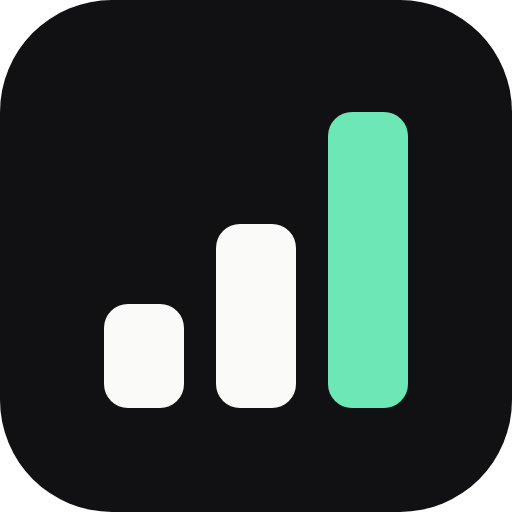
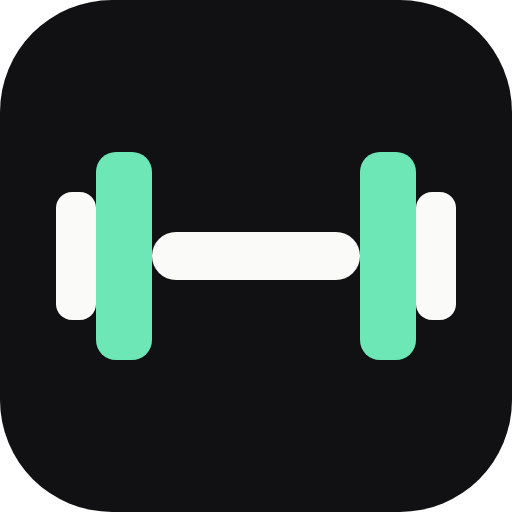
Snapshot-first dashboard with tabs for the full data; Fat to Fit track to 85 kg; dumbbell branding and lift animations; profile and goal set; steps-aware burn estimate
Claude-Session: https://claude.ai/code/session_01WTKywF3WSx8F6Vy4QhDQe5

Changed region(s): [[0.0938, 0.2188, 0.9062, 0.8125]]

diff --git a/src/Dashboard.jsx b/src/Dashboard.jsx
@@ -2,7 +2,7 @@ import { useEffect, useMemo, useRef, useState } from 'react';
 import { EXPERIMENTS, HANDLE, IG_URL, MUSCLES, POSITIONING, PROFILE, SHEET_COPY_URL, TARGETS } from './config.js';
 import { addDays, buildFrame, fmtDate, fromKey, todayKey } from './lib.js';
 import { aggregates, buildDays, estimateBurn, experimentResult, highlights, insights, milestones, overview, perfectStreaks, sheetChecks, weekCompare, weeklyChange, weeklyReports } from './analytics.js';
-import { BurnCard, ExperimentCard, InsightsCard, KaizenCard, RulesStrip, SheetCheck, ShareButton, ThemeToggle, TodayRing, VlogGallery, WeekCompareCard, WeeklyReports } from './components/Protocol.jsx';
+import { BurnCard, Dumbbell, FatToFitTrack, ExperimentCard, InsightsCard, KaizenCard, RulesStrip, SheetCheck, ShareButton, ThemeToggle, TodayRing, VlogGallery, WeekCompareCard, WeeklyReports } from './components/Protocol.jsx';
 import { journalFromCsv } from './sheet.js';
 import BodyMap from './components/BodyMap.jsx';
 import ConsistencyFrame from './components/ConsistencyFrame.jsx';
@@ -67,13 +67,14 @@ function Intro() {
   useEffect(() => {
     if (!on) return undefined;
     try { sessionStorage.setItem('f2f:intro', '1'); } catch { /* ignore */ }
-    const a = setTimeout(() => setLeaving(true), 2300); const b = setTimeout(() => setOn(false), 3100);
+    const a = setTimeout(() => setLeaving(true), 3000); const b = setTimeout(() => setOn(false), 3800);
     return () => { clearTimeout(a); clearTimeout(b); };
   }, [on]);
   if (!on) return null;
   return (
     <div className={`intro ${leaving ? 'out' : ''}`} onClick={() => { setLeaving(true); setTimeout(() => setOn(false), 700); }} role="presentation">
       <div className="intro-in">
+        <Dumbbell size={84} className="intro-db" />
         <span className="i1" lang="ja">改善</span>
         <span className="i2">Kaizen</span>
         <span className="i3">1% better, every single day</span>
@@ -84,9 +85,9 @@ function Intro() {
 }
 
 // Counts up to its value when it first appears, and glides to the new value when the sheet changes.
-export function Num({ v, d = 0, sign = false, loc = false, delay = 0 }) {
-  const [shown, setShown] = useState(() => (reduced() ? v : 0));
-  const from = useRef(reduced() ? v : 0);
+export function Num({ v, d = 0, sign = false, loc = false, delay = 0, from: origin = 0 }) {
+  const [shown, setShown] = useState(() => (reduced() ? v : origin));
+  const from = useRef(reduced() ? v : origin);
   useEffect(() => {
     if (reduced()) { setShown(v); return undefined; }
     let raf; let t0 = null; const start = from.current; const ms = 1100;
@@ -199,6 +200,8 @@ export default function Dashboard() {
   const t = journal.target;
   const [range, setRange] = useState(30);
   const [sel, setSel] = useState(null);
+  const [fullOpen, setFullOpen] = useState(() => { try { return new URLSearchParams(window.location.search).has('full'); } catch { return false; } });
+  const [tab, setTab] = useState('days');
   const [story, setStory] = useState(null); // { i, paused } while the highlight reel plays
   const [, tick] = useState(0);
   useEffect(() => { const id = setInterval(() => tick((x) => x + 1), 30000); return () => clearInterval(id); }, []);
@@ -218,6 +221,9 @@ export default function Dashboard() {
   const selKey = sel && days.some((d) => d.k === sel) ? sel : (lastLogged || days[days.length - 1])?.k;
   const selDay = days.find((d) => d.k === selKey);
   const selIdx = days.findIndex((d) => d.k === selKey);
+  const openFull = (name = 'days') => { setTab(name); setFullOpen(true); setTimeout(() => document.getElementById('full')?.scrollIntoView({ behavior: reduced() ? 'auto' : 'smooth', block: 'start' }), 80); };
+  const closeFull = () => { setFullOpen(false); window.scrollTo({ top: 0, behavior: reduced() ? 'auto' : 'smooth' }); };
+  const openDay = (k) => { setStory(null); setSel(k); openFull('days'); };
   const hl = useMemo(() => highlights(days, journal, today), [days, journal, today]);
   const ins = useMemo(() => insights(days, t), [days, t]);
   const wc = useMemo(() => weekCompare(days, today), [days, today]);
@@ -289,6 +295,7 @@ export default function Dashboard() {
       <Intro />
       <header className="hero">
         <ThemeToggle />
+        <Dumbbell size={40} className="hero-db" />
         <a className="handle" href={IG_URL} target="_blank" rel="noopener noreferrer">{HANDLE}</a>
         <h1>Weight Loss Journal</h1>
         <p className="kaizen"><span lang="ja">改善</span> Kaizen · 1% better, every single day</p>
@@ -305,26 +312,52 @@ export default function Dashboard() {
       <RulesStrip t={t} positioning={POSITIONING} />
       {days.length > 0 && <TodayRing day={todayDay} today={today} />}
 
-      {days.length > 0 && <div className="strip-wrap"><DayStrip days={days} selected={selKey} today={today} onSelect={(k) => { setStory(null); setSel(k); }} playing={!!story} onPlay={() => (story ? setStory(null) : startStory())} canPlay={days.length > 0} /></div>}
+      {days.length > 0 && <div className="strip-wrap"><DayStrip days={days} selected={selKey} today={today} onSelect={openDay} playing={!!story} onPlay={() => (story ? setStory(null) : startStory())} canPlay={days.length > 0} /></div>}
 
       {!days.length ? (
         <Card><p className="dim">{sheet.status === 'loading' ? 'Loading the journal…' : 'No entries yet. Once the first day is added to the sheet, everything appears here automatically.'}</p></Card>
       ) : (
         <main>
+          <section className="snap">
+            <FatToFitTrack start={ov?.start} current={ov?.current} goal={t.goalWeight} perWeek={t.perWeek} trend={ov?.trend} today={today} />
           <div className="kpis">
-            <Kpi k="Weight now" big={ov ? <Num v={ov.current} d={1} delay={600} /> : '–'} unit="kg" note={ov ? `${short(ov.currentDate)} · started ${ov.start.toFixed(1)}` : 'First weigh-in coming'} />
+            <Kpi k="Weight now" big={ov ? <Num v={ov.current} d={1} delay={600} from={ov.start} /> : '–'} unit="kg" note={ov ? `${short(ov.currentDate)} · started ${ov.start.toFixed(1)}` : 'First weigh-in coming'} />
             <Kpi k="Lost so far" big={ov ? <Num v={-ov.lost} d={1} sign delay={700} /> : '–'} unit="kg" tone={ov && ov.lost > 0 ? 'good' : ''} note={ov ? `${ov.pctOfStart}% of starting weight` : ''} />
             <Kpi k="Weekly trend" big={ov?.trend ? <Num v={ov.trend.perWeek} d={2} sign delay={800} /> : '–'} unit="kg/wk" tone={trendTone} note={ov?.trend ? `Target −${t.perWeek} · 14-day trend` : 'Needs two weeks of weigh-ins'} />
             <Kpi k="Perfect days" big={<Num v={agAll.perfect} delay={900} />} unit={`of ${agAll.tracked}`} note={`Streak ${streak.cur} · best ${streak.best}`} />
             <Kpi k="Avg sleep" big={a7.sleep.avg ?? '–'} unit={a7.sleep.avg != null ? 'h' : ''} tone={a7.sleep.avg != null && a7.sleep.avg >= t.sleep ? 'good' : a7.sleep.avg != null ? 'warn' : ''} note={a7.sleep.avg != null ? `Last 7 days · target ${t.sleep} h` : 'Not tracked yet · add Sleep (hrs) in the sheet'} />
             <Kpi k="Steps" big={agAll.steps.avg != null ? <Num v={agAll.steps.avg} loc delay={1000} /> : '–'} unit="/ day" note={`${agAll.steps.total.toLocaleString('en-IN')} total · goal ${t.steps.toLocaleString('en-IN')}`} />
           </div>
-
+            <div className="grid">
+              <div className="c7"><Card title="Weight · last 30 days" sub={ov ? `${ov.status === 'on pace' ? 'On target pace' : `${Math.abs(ov.diff).toFixed(2)} kg ${ov.status} of the −${t.perWeek} kg/week line`}` : 'Needs a first weigh-in'}>
+                <XYChart xs={days.slice(-30).map((d) => ({ k: d.k, label: short(d.k), full: fmtDate(d.k, { weekday: 'short', day: 'numeric', month: 'short' }) }))} label="Weight, last 30 days" fmt={(v) => v.toFixed(1)} height={210} onPick={openDay}
+                  lines={[{ name: 'Weight', values: days.slice(-30).map((d) => d.w), color: 'var(--c1)', dots: true }, { name: `Target −${t.perWeek} kg/week`, values: days.slice(-30).map((d) => d.target), color: 'var(--muted)', dash: true }]}
+                  tip={(i) => { const d = days.slice(-30)[i]; return [d.w != null && { name: 'Weight', text: `${d.w.toFixed(1)} kg`, color: 'var(--c1)' }, d.target != null && { name: 'Target', text: `${d.target.toFixed(1)} kg` }].filter(Boolean); }} />
+              </Card></div>
+              <div className="c5 stack"><ExperimentCard results={experiments} />
+                {ms.next[0] && <Card title="Next milestone" sub="The closest badge to earn"><ul className="nextlist">{ms.next.slice(0, 3).map((n) => <li key={n.cat}><span>{n.title}</span><i><u style={{ width: `${Math.min(100, (n.have / n.n) * 100)}%` }} /></i><em>{n.cat === 'steps' ? `${Math.round(n.have / 1000)}k / ${n.n / 1000}k` : `${n.have} / ${n.n}`}</em></li>)}</ul></Card>}
+              </div>
+            </div>
+            <div className="snapcta">
+              <button className="bigbtn" onClick={() => (fullOpen ? closeFull() : openFull('days'))}><Dumbbell size={26} /><span>{fullOpen ? 'Hide the full data' : 'See all the data'}</span><i aria-hidden="true">{fullOpen ? '↑' : '↓'}</i></button>
+              <button className="bigbtn ghost" onClick={startStory}><span aria-hidden="true">▶</span><span>Play my journey</span></button>
+            </div>
+          </section>
+          {fullOpen && (
+            <section className="full" id="full">
+              <div className="tabs" role="tablist" aria-label="Full data">
+                <button role="tab" aria-selected={tab === 'days'} className={tab === 'days' ? 'on' : ''} onClick={() => setTab('days')}>Days</button>
+                <button role="tab" aria-selected={tab === 'trends'} className={tab === 'trends' ? 'on' : ''} onClick={() => setTab('trends')}>Trends</button>
+                <button role="tab" aria-selected={tab === 'journey'} className={tab === 'journey' ? 'on' : ''} onClick={() => setTab('journey')}>Journey</button>
+                <button role="tab" aria-selected={tab === 'journal'} className={tab === 'journal' ? 'on' : ''} onClick={() => setTab('journal')}>Vlogs & journal</button>
+                <button className="tabs-x" onClick={closeFull} aria-label="Hide the full data">Hide ↑</button>
+              </div>
+              <div className="tabbody" key={tab}>
+                {tab === 'days' && (<>
           <div className="grid">
             <div className="c7"><KaizenCard days={days} view={view} xs={xs} t={t} onPick={setSel} selected={selKey} /></div>
             <div className="c5 stack"><ExperimentCard results={experiments} /><WeekCompareCard wc={wc} /></div>
           </div>
-
           <div className="grid">
             {selDay && <div className="c5" key={selDay.k}><DayPanel d={selDay} t={t} prevW={prevW} today={today} dayNo={selIdx + 1} /></div>}
             <div className="c7 stack">
@@ -343,40 +376,8 @@ export default function Dashboard() {
               </Card>
             </div>
           </div>
-
-          <div className="grid">
-            <div className="c7"><InsightsCard ins={ins} /></div>
-            <div className="c5 stack">{burn && <BurnCard est={burn.est} avgKcal={burn.avgKcal} avgSteps={burn.avgSteps} target={t.perWeek} />}<WeeklyReports reports={reports.slice(0, 6)} /></div>
-          </div>
-
-          {hl.length > 2 && (
-            <Card className="hlcard" title="Key moments" sub="The days that mattered, found automatically from the sheet. Tap one to open that day, or play the whole journey as a short story."
-              right={<button className="play solid" onClick={startStory}><span aria-hidden="true">▶</span><b>Play my journey</b></button>}>
-              <ul className="hl">{hl.map((e, i) => (
-                <li key={e.id}><button className={`hl-item ${e.tone}`} onClick={() => { setStory(null); setSel(e.date); window.scrollTo({ top: 0, behavior: 'smooth' }); }}>
-                  <span className="hl-k">{e.kind} · {short(e.date)}</span><b>{e.title}</b><em>{e.detail}</em></button></li>))}</ul>
-            </Card>
-          )}
-
-          <div className="grid">
-            <div className="c5"><Card title="Before & after" sub={ov ? `Since ${fmtDate(ov.startDate, { day: 'numeric', month: 'long' })}` : 'Needs a first weigh-in'}>
-              {ov ? (
-                <>
-                  <div className="ba"><div><span className="k">Start</span><b>{ov.start.toFixed(1)}<small> kg</small></b></div><i aria-hidden="true">→</i><div><span className="k">Now</span><b>{ov.current.toFixed(1)}<small> kg</small></b></div><div className="lost"><span className="k">Change</span><b>{sgn(-ov.lost)}<small> kg</small></b></div></div>
-                  {t.goalWeight ? (() => { const pct = Math.max(0, Math.min(100, ((ov.start - ov.current) / (ov.start - t.goalWeight)) * 100)); return (<><div className="goalbar" role="img" aria-label={`${Math.round(pct)}% of the way to ${t.goalWeight} kg`}><u style={{ width: `${pct}%` }} /></div><p className="rule">{Math.round(pct)}% of the way to {t.goalWeight} kg · {(ov.current - t.goalWeight).toFixed(1)} kg to go{ov.trend && ov.trend.perWeek < 0 ? ` · about ${Math.ceil((ov.current - t.goalWeight) / -ov.trend.perWeek)} weeks at this pace` : ''}</p></>); })() : ov.in4weeks != null && <p className="rule">At the current 14-day trend: about {ov.in4weeks} kg in four weeks.</p>}
-                </>
-              ) : <p className="dim">Appears after the first weigh-in.</p>}
-            </Card></div>
-            <div className="c7"><Card title="Milestones" sub={`${ms.earned.length} earned · each with the day it was reached`}>
-              {ms.earned.length ? <ul className="badges">{ms.earned.slice(0, 8).map((e) => <li key={`${e.cat}${e.n}`}><b>{e.title}</b><span>{fmtDate(e.date, { day: 'numeric', month: 'short' })}</span></li>)}</ul> : <p className="dim">The first badge lands soon.</p>}
-              <h3 className="nexth">Up next</h3>
-              <ul className="nextlist">{ms.next.map((n) => <li key={n.cat}><span>{n.title}</span><i><u style={{ width: `${Math.min(100, (n.have / n.n) * 100)}%` }} /></i><em>{n.cat === 'steps' ? `${Math.round(n.have / 1000)}k / ${n.n / 1000}k` : `${n.have} / ${n.n}`}</em></li>)}</ul>
-            </Card></div>
-          </div>
-
-          {frame && <Card title="Consistency" sub="Every square is a day. The darker, the more of the four daily goals were met."><div className="framewrap"><ConsistencyFrame frame={frame} caption="perfect days" maxLabel={4} compact hideLeft /></div>
-            <p className="rule">Perfect day = {t.steps.toLocaleString('en-IN')} steps + evening gym + calories under {t.kcal} + vlog posted. A planned rest day waives the steps goal and gym.</p></Card>}
-
+                </>)}
+                {tab === 'trends' && (<>
           <Card title={`Daily habits · ${rangeLabel.toLowerCase()}`} sub={`Share of ${ag.tracked} logged days where each goal was met`}>
             <div className="rings">
               <Ring pct={ag.hit.steps} label="Steps" sub={`${t.steps / 1000}k a day`} />
@@ -386,7 +387,6 @@ export default function Dashboard() {
               <Ring pct={ag.hit.sleep} label="Sleep" sub={ag.hit.sleep == null ? 'not tracked yet' : `${t.sleep} h+`} />
             </div>
           </Card>
-
           <div className="grid">
             <div className="c6"><Card title="Sleep" sub={`Hours per night · ${rangeLabel.toLowerCase()}${ag.sleep.avg != null ? ` · average ${ag.sleep.avg} h` : ''}`}>
               <XYChart xs={xs} label="Hours of sleep per night" fmt={(v) => v} height={220} onPick={setSel} selected={selKey} empty="Sleep isn’t tracked yet. Add Sleep (hrs) in the daily sheet and this chart fills in."
@@ -406,7 +406,6 @@ export default function Dashboard() {
                 { name: '2 or fewer', value: ag.outcome.low, color: 'var(--warn)' }, { name: 'Rest days', value: ag.outcome.rest, color: 'var(--faint)' }]} />
             </Card></div>
           </div>
-
           <div className="grid">
             <div className="c6"><Card title="Calories" sub={`${rangeLabel}${ag.calories.avg != null ? ` · average ${ag.calories.avg} kcal` : ''}${ag.calories.overDays ? ` · ${ag.calories.overDays} day${ag.calories.overDays === 1 ? '' : 's'} over` : ''}`}>
               <XYChart xs={xs} label="Calories per day" height={220} fmt={(v) => v} onPick={setSel} selected={selKey}
@@ -424,7 +423,6 @@ export default function Dashboard() {
               <HBars items={MUSCLES.map((m) => ({ name: m.label, value: ag.parts[m.id] || 0 })).sort((a, b) => b.value - a.value)} />
             </Card></div>
           </div>
-
           <div className="grid">
             <div className="c6"><Card title="Steps" sub={`Per day · average ${ag.steps.avg != null ? ag.steps.avg.toLocaleString('en-IN') : '–'}${ag.steps.best ? ` · best ${ag.steps.best.toLocaleString('en-IN')}` : ''}`}>
               <XYChart xs={xs} label="Steps per day" height={210} fmt={(v) => (v >= 1000 ? `${v / 1000}k` : v)} onPick={setSel} selected={selKey}
@@ -439,10 +437,41 @@ export default function Dashboard() {
                 tip={(i) => [{ name: 'Total', text: wkSteps[i].total.toLocaleString('en-IN') }, { name: 'Days logged', text: String(wkSteps[i].n) }]} />
             </Card></div>
           </div>
-
+                </>)}
+                {tab === 'journey' && (<>
+          <div className="grid">
+            <div className="c7"><InsightsCard ins={ins} /></div>
+            <div className="c5 stack">{burn && <BurnCard est={burn.est} avgKcal={burn.avgKcal} avgSteps={burn.avgSteps} target={t.perWeek} />}<WeeklyReports reports={reports.slice(0, 6)} /></div>
+          </div>
+          {hl.length > 2 && (
+            <Card className="hlcard" title="Key moments" sub="The days that mattered, found automatically from the sheet. Tap one to open that day, or play the whole journey as a short story."
+              right={<button className="play solid" onClick={startStory}><span aria-hidden="true">▶</span><b>Play my journey</b></button>}>
+              <ul className="hl">{hl.map((e, i) => (
+                <li key={e.id}><button className={`hl-item ${e.tone}`} onClick={() => openDay(e.date)}>
+                  <span className="hl-k">{e.kind} · {short(e.date)}</span><b>{e.title}</b><em>{e.detail}</em></button></li>))}</ul>
+            </Card>
+          )}
+          <div className="grid">
+            <div className="c5"><Card title="Before & after" sub={ov ? `Since ${fmtDate(ov.startDate, { day: 'numeric', month: 'long' })}` : 'Needs a first weigh-in'}>
+              {ov ? (
+                <>
+                  <div className="ba"><div><span className="k">Start</span><b>{ov.start.toFixed(1)}<small> kg</small></b></div><i aria-hidden="true">→</i><div><span className="k">Now</span><b>{ov.current.toFixed(1)}<small> kg</small></b></div><div className="lost"><span className="k">Change</span><b>{sgn(-ov.lost)}<small> kg</small></b></div></div>
+                  {t.goalWeight ? (() => { const pct = Math.max(0, Math.min(100, ((ov.start - ov.current) / (ov.start - t.goalWeight)) * 100)); return (<><div className="goalbar" role="img" aria-label={`${Math.round(pct)}% of the way to ${t.goalWeight} kg`}><u style={{ width: `${pct}%` }} /></div><p className="rule">{Math.round(pct)}% of the way to {t.goalWeight} kg · {(ov.current - t.goalWeight).toFixed(1)} kg to go{ov.trend && ov.trend.perWeek < 0 ? ` · about ${Math.ceil((ov.current - t.goalWeight) / -ov.trend.perWeek)} weeks at this pace` : ''}</p></>); })() : ov.in4weeks != null && <p className="rule">At the current 14-day trend: about {ov.in4weeks} kg in four weeks.</p>}
+                </>
+              ) : <p className="dim">Appears after the first weigh-in.</p>}
+            </Card></div>
+            <div className="c7"><Card title="Milestones" sub={`${ms.earned.length} earned · each with the day it was reached`}>
+              {ms.earned.length ? <ul className="badges">{ms.earned.slice(0, 8).map((e) => <li key={`${e.cat}${e.n}`}><b>{e.title}</b><span>{fmtDate(e.date, { day: 'numeric', month: 'short' })}</span></li>)}</ul> : <p className="dim">The first badge lands soon.</p>}
+              <h3 className="nexth">Up next</h3>
+              <ul className="nextlist">{ms.next.map((n) => <li key={n.cat}><span>{n.title}</span><i><u style={{ width: `${Math.min(100, (n.have / n.n) * 100)}%` }} /></i><em>{n.cat === 'steps' ? `${Math.round(n.have / 1000)}k / ${n.n / 1000}k` : `${n.have} / ${n.n}`}</em></li>)}</ul>
+            </Card></div>
+          </div>
+          {frame && <Card title="Consistency" sub="Every square is a day. The darker, the more of the four daily goals were met."><div className="framewrap"><ConsistencyFrame frame={frame} caption="perfect days" maxLabel={4} compact hideLeft /></div>
+            <p className="rule">Perfect day = {t.steps.toLocaleString('en-IN')} steps + evening gym + calories under {t.kcal} + vlog posted. A planned rest day waives the steps goal and gym.</p></Card>}
+                </>)}
+                {tab === 'journal' && (<>
           {checkMode && <SheetCheck warnings={warnings} />}
           <VlogGallery days={days} handle={HANDLE} />
-
           <div className="grid">
             <div className="c5"><Card title="What I track" sub="Everything below is filled in daily from one sheet">
               <ul className="track">
@@ -467,6 +496,10 @@ export default function Dashboard() {
               </table></div>
             </Card></div>
           </div>
+                </>)}
+              </div>
+            </section>
+          )}
         </main>
       )}
 

diff --git a/src/dashboard.css b/src/dashboard.css
@@ -156,10 +156,10 @@
 .dx .intro.out { transform: translateY(-100%); opacity: .6; }
 .dx .intro-in { display: grid; gap: 10px; justify-items: center; padding: 24px; }
 .dx .intro-in span { opacity: 0; transform: translateY(14px); animation: rise .8s cubic-bezier(.2,.7,.2,1) forwards; }
-.dx .i1 { font: 700 clamp(88px, 22vw, 180px)/1 var(--sans); letter-spacing: -0.04em; color: var(--accent); animation-delay: .1s !important; }
-.dx .i2 { font: 300 clamp(22px, 5vw, 36px) var(--sans); letter-spacing: .5em; text-transform: uppercase; margin-right: -.5em; animation-delay: .6s !important; }
-.dx .i3 { font: italic 400 clamp(20px, 4vw, 30px)/1.2 var(--serif); color: var(--muted); animation-delay: 1.1s !important; }
-.dx .i4 { font-size: 12px; letter-spacing: .18em; text-transform: uppercase; color: var(--faint); margin-top: 18px; animation-delay: 1.5s !important; }
+.dx .i1 { font: 700 clamp(88px, 22vw, 180px)/1 var(--sans); letter-spacing: -0.04em; color: var(--accent); animation-delay: 1.3s !important; }
+.dx .i2 { font: 300 clamp(22px, 5vw, 36px) var(--sans); letter-spacing: .5em; text-transform: uppercase; margin-right: -.5em; animation-delay: 1.8s !important; }
+.dx .i3 { font: italic 400 clamp(20px, 4vw, 30px)/1.2 var(--serif); color: var(--muted); animation-delay: 2.2s !important; }
+.dx .i4 { font-size: 12px; letter-spacing: .18em; text-transform: uppercase; color: var(--faint); margin-top: 18px; animation-delay: 2.6s !important; }
 @keyframes rise { to { opacity: 1; transform: none; } }
 
 .dx .hero > * { animation: rise .8s cubic-bezier(.2,.7,.2,1) both; opacity: 0; transform: translateY(12px); }
@@ -288,3 +288,39 @@ html.reel-on, html.reel-on body { overflow: hidden; height: 100%; }
 .reel-goals { list-style: none; margin: 1vh 0 0; padding: 0; display: grid; gap: 1.2vh; } .reel-goals li { display: flex; justify-content: space-between; align-items: center; border: 1px solid rgba(255,255,255,.14); border-radius: 14px; padding: 1.4vh 20px; font-size: clamp(16px, 2.6vh, 24px); color: #a1a1aa; animation: rise .6s calc(.6s + var(--i) * .12s) both; } .reel-goals li b { font-size: 1.15em; } .reel-goals li.on { color: #f4f4f5; border-color: #6ee7b7; background: rgba(110,231,183,.08); } .reel-goals li.on b { color: #6ee7b7; }
 .reel-foot { margin-top: 2.5vh; font-size: clamp(15px, 2.4vh, 22px); color: #a1a1aa; } .reel-url { font-size: 13px; color: #52525b; margin-top: 1vh; }
 @media (prefers-reduced-motion: reduce) { .reel * { animation: none !important; } }
+
+/* ---------- dumbbell, snapshot, tabs, fat-to-fit track ---------- */
+.dx .db { fill: currentColor; color: var(--text); overflow: visible; }
+.dx .db-l rect:first-child, .dx .db-r rect:first-child { fill: var(--accent); }
+.dx .hero-db { display: block; margin: 0 auto 10px; animation: lifting 3.2s ease-in-out infinite; transform-origin: 50% 70%; }
+@keyframes lifting { 0%, 55%, 100% { transform: translateY(0) rotate(0); } 15% { transform: translateY(-9px) rotate(-4deg); } 30% { transform: translateY(-9px) rotate(4deg); } 42% { transform: translateY(0) rotate(0); } }
+.dx .intro-db { opacity: 1; transform: none; animation: introlift 2.4s cubic-bezier(.4,0,.2,1) both !important; margin-bottom: 14px; }
+@keyframes introlift { 0% { transform: translateY(26px) scale(.7); opacity: 0; } 18% { transform: translateY(0) scale(1); opacity: 1; } 34% { transform: translateY(-30px); } 46% { transform: translateY(0); } 62% { transform: translateY(-30px) rotate(-3deg); } 76%, 100% { transform: translateY(0) rotate(0); opacity: 1; } }
+.dx .intro-db .db-l { animation: plate-l .9s .35s cubic-bezier(.2,.7,.2,1) both; } .dx .intro-db .db-r { animation: plate-r .9s .35s cubic-bezier(.2,.7,.2,1) both; }
+@keyframes plate-l { from { transform: translateX(-26px); opacity: 0; } } @keyframes plate-r { from { transform: translateX(26px); opacity: 0; } }
+
+.dx .snap { display: grid; gap: 20px; }
+.dx .snapcta { display: flex; flex-wrap: wrap; gap: 12px; justify-content: center; }
+.dx .bigbtn { display: inline-flex; align-items: center; gap: 12px; border: 0; background: var(--text); color: var(--bg); border-radius: 99px; padding: 14px 26px; font: 600 16px var(--sans); cursor: pointer; transition: transform .2s, box-shadow .2s; box-shadow: 0 8px 30px color-mix(in srgb, var(--text) 18%, transparent); }
+.dx .bigbtn:hover { transform: translateY(-3px) scale(1.02); } .dx .bigbtn .db { color: var(--bg); } .dx .bigbtn:hover .db { animation: lifting 1s ease-in-out infinite; }
+.dx .bigbtn i { font-style: normal; animation: nudgey 1.6s ease-in-out infinite; } @keyframes nudgey { 50% { transform: translateY(3px); } }
+.dx .bigbtn.ghost { background: transparent; color: var(--text); border: 1px solid var(--line-2); box-shadow: none; }
+
+.dx .track { border: 1px solid var(--line); border-radius: 20px; padding: 20px 24px 18px; background: linear-gradient(180deg, var(--raised), var(--panel)); }
+.dx .track-top { display: flex; flex-wrap: wrap; justify-content: space-between; align-items: baseline; gap: 6px 16px; } .dx .track-top b { font: 700 24px var(--sans); letter-spacing: -0.03em; } .dx .track-top i { font-style: normal; color: var(--ok); } .dx .track-top span { color: var(--muted); font-size: 13.5px; }
+.dx .track-bar { position: relative; height: 14px; margin: 56px 14px 8px; border-radius: 99px; background: var(--line-2); }
+.dx .track-fill { position: absolute; inset: 0 auto 0 0; width: 0; border-radius: 99px; background: linear-gradient(90deg, var(--warn), var(--ok)); transition: width 2s cubic-bezier(.2,.7,.2,1) .3s; }
+.dx .track-marker { position: absolute; top: -50px; left: 0; transform: translateX(-50%); display: grid; justify-items: center; transition: left 2s cubic-bezier(.2,.7,.2,1) .3s; } .dx .track-marker em { font-style: normal; font: 600 12px var(--sans); color: var(--muted); margin-top: -2px; }
+.dx .track.in .track-fill { width: var(--p); } .dx .track.in .track-marker { left: var(--p); } .dx .track-marker .db { animation: lifting 2.6s ease-in-out infinite 2.4s; }
+.dx .track-ends { display: flex; justify-content: space-between; font: 600 14px var(--sans); } .dx .track-ends small { display: block; font-weight: 400; font-size: 11px; letter-spacing: .12em; text-transform: uppercase; color: var(--muted); } .dx .track-ends span:last-child { text-align: right; }
+.dx .track-eta { margin: 12px 0 0; font-size: 13px; color: var(--muted); }
+
+.dx .full { display: grid; gap: 16px; scroll-margin-top: 90px; animation: opendown .6s cubic-bezier(.2,.7,.2,1) both; }
+@keyframes opendown { from { opacity: 0; transform: translateY(-18px); } }
+.dx .tabs { display: flex; gap: 6px; flex-wrap: wrap; position: sticky; top: 84px; z-index: 15; padding: 8px; border: 1px solid var(--line-2); border-radius: 99px; background: color-mix(in srgb, var(--bg) 88%, transparent); backdrop-filter: blur(10px); width: fit-content; max-width: 100%; margin: 0 auto; }
+.dx .tabs button { border: 0; background: transparent; color: var(--muted); border-radius: 99px; padding: 8px 18px; font: 500 14px var(--sans); cursor: pointer; transition: background .25s, color .25s; } .dx .tabs button.on { background: var(--text); color: var(--bg); } .dx .tabs .tabs-x { color: var(--faint); }
+.dx .tabbody { display: grid; gap: 20px; animation: tabin .5s cubic-bezier(.2,.7,.2,1) both; } @keyframes tabin { from { opacity: 0; transform: translateX(22px); } }
+@media (max-width: 640px) { .dx .tabs { top: 72px; border-radius: 18px; } .dx .tabs button { padding: 8px 12px; font-size: 13px; } .dx .track { padding: 16px 16px 14px; } .dx .bigbtn { padding: 13px 20px; font-size: 15px; } }
+@media (prefers-reduced-motion: reduce) { .dx .track-fill { width: var(--p) !important; transition: none; } .dx .track-marker { left: var(--p) !important; transition: none; } .dx .full, .dx .tabbody { animation: none !important; } }
+.dx .hero .hero-db { opacity: 1; }
+@media (max-width: 640px) { .dx .cta .play b { display: inline; } .dx .cta .play { padding: 12px 18px; } }

diff --git a/src/components/Protocol.jsx b/src/components/Protocol.jsx
@@ -168,3 +168,30 @@ export function ShareButton({ data, className = '' }) {
   };
   return <span className={`sharewrap ${className}`}><button className="play" onClick={go} disabled={busy}><span aria-hidden="true">⤓</span><b>{busy ? 'Making…' : 'Share progress card'}</b></button>{msg && <em role="status">{msg}</em>}</span>;
 }
+
+export function Dumbbell({ className = '', size = 44 }) {
+  return (
+    <svg viewBox="0 0 64 64" width={size} height={size} className={`db ${className}`} aria-hidden="true">
+      <g className="db-bar"><rect x="17" y="29" width="30" height="6" rx="3" /></g>
+      <g className="db-l"><rect x="11" y="19" width="7" height="26" rx="2.5" /><rect x="5" y="24" width="6" height="16" rx="2" /></g>
+      <g className="db-r"><rect x="46" y="19" width="7" height="26" rx="2.5" /><rect x="53" y="24" width="6" height="16" rx="2" /></g>
+    </svg>
+  );
+}
+
+// "Fat -> Fit": the whole journey as one bar from the starting weight to the goal weight, with a dumbbell marking where I am.
+export function FatToFitTrack({ start, current, goal, perWeek, trend, today }) {
+  if (start == null || current == null || !goal || start <= goal) return null;
+  const pct = Math.max(0, Math.min(100, ((start - current) / (start - goal)) * 100));
+  const togo = Math.max(0, current - goal);
+  const eta = (perKg) => { const d = new Date(`${today}T00:00:00`); d.setDate(d.getDate() + Math.ceil((togo / perKg) * 7)); return d.toLocaleDateString('en-IN', { day: 'numeric', month: 'short', year: 'numeric' }); };
+  const pace = trend && trend.perWeek < -0.05 ? -trend.perWeek : null;
+  return (
+    <section className="track rv" style={{ '--p': `${pct}%` }} aria-label={`${pct.toFixed(0)}% of the way from ${start} kg to ${goal} kg`}>
+      <div className="track-top"><b>Fat <i>→</i> Fit</b><span>{pct.toFixed(1)}% of the way · {togo.toFixed(1)} kg to go</span></div>
+      <div className="track-bar"><div className="track-fill" /><div className="track-marker"><Dumbbell size={34} /><em>{current.toFixed(1)}</em></div></div>
+      <div className="track-ends"><span>{start.toFixed(1)} kg<small>start</small></span><span>{goal} kg<small>goal</small></span></div>
+      <p className="track-eta">{perWeek ? `At −${perWeek} kg a week: about ${eta(perWeek)}.` : ''}{pace ? ` At my recent pace (−${pace.toFixed(2)} kg a week): about ${eta(pace)}.` : ''}</p>
+    </section>
+  );
+}

diff --git a/src/config.js b/src/config.js
@@ -87,7 +87,7 @@ export const TAGLINE = '21-day challenge · −0.75 kg every week';
 export const TARGETS = {
   perWeek: 0.75, // kg lost per week
   startWeight: null, // kg; leave null to use the first weight in the sheet
-  goalWeight: null, // kg; set a number to show progress towards it on the dashboard
+  goalWeight: 85, // kg; progress towards it is shown on the dashboard
   steps: 10000, // daily steps
   kcal: 2400, // daily calories (at or under)
   protein: 150, // grams
@@ -125,7 +125,7 @@ export const EXPERIMENTS = [
 ];
 
 // Fill these in to switch on the "estimated fat loss" card (calories in vs out). Leave null to keep it hidden.
-export const PROFILE = { sex: null, ageYears: null, heightCm: null }; // sex: 'male' | 'female'
+export const PROFILE = { sex: 'male', ageYears: 24, heightCm: 175.25 }; // sex: 'male' | 'female'
 
 // Lets followers copy your sheet template ("Make a copy"). Works because the sheet is shared as Viewer.
 export const SHEET_COPY_URL = 'https://docs.google.com/spreadsheets/d/1X-PC7_gJUWIUhmjztmm7TO0eWEUe6DIbDDb-ivN7XS8/copy';

diff --git a/src/analytics.js b/src/analytics.js
@@ -313,7 +313,8 @@ export function weeklyReports(days, today) {
 export function estimateBurn(profile, weight, avgKcal, avgSteps, gymShare = 0) {
   if (!profile || !profile.sex || !profile.ageYears || !profile.heightCm || weight == null || avgKcal == null) return null;
   const bmr = 10 * weight + 6.25 * profile.heightCm - 5 * profile.ageYears + (profile.sex === 'male' ? 5 : -161);
-  const tdee = bmr * 1.2 + (avgSteps || 0) * 0.045 * (weight / 70) + gymShare * 300;
+  // 1.2 x BMR already covers everyday movement, so only steps beyond ~3,000 add calories (about 0.04 kcal per step at 70 kg, scaled by body weight)
+  const tdee = bmr * 1.2 + Math.max(0, (avgSteps || 0) - 3000) * 0.04 * (weight / 70) + gymShare * 300;
   const deficit = tdee - avgKcal;
   return { bmr: Math.round(bmr), tdee: Math.round(tdee), deficit: Math.round(deficit), weeklyKg: +((deficit * 7) / 7700).toFixed(2) };
 }
